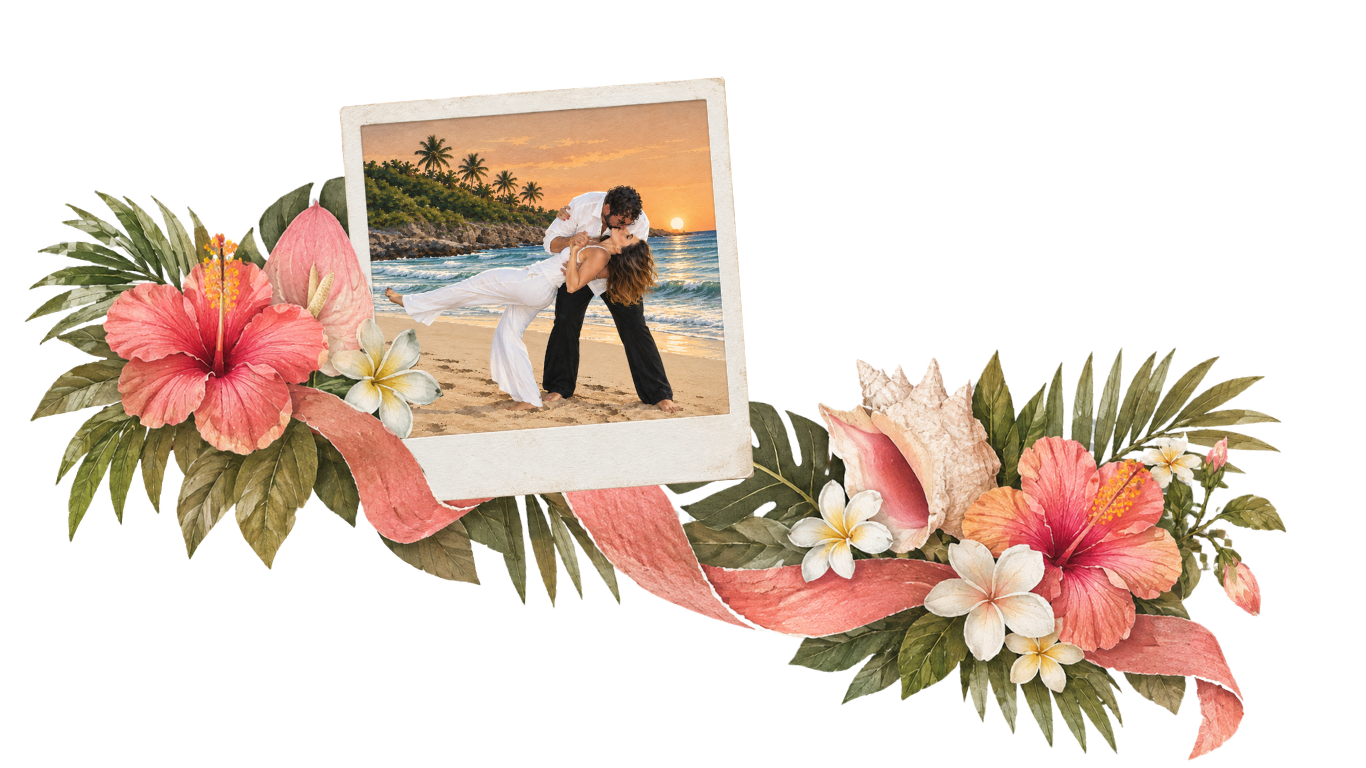
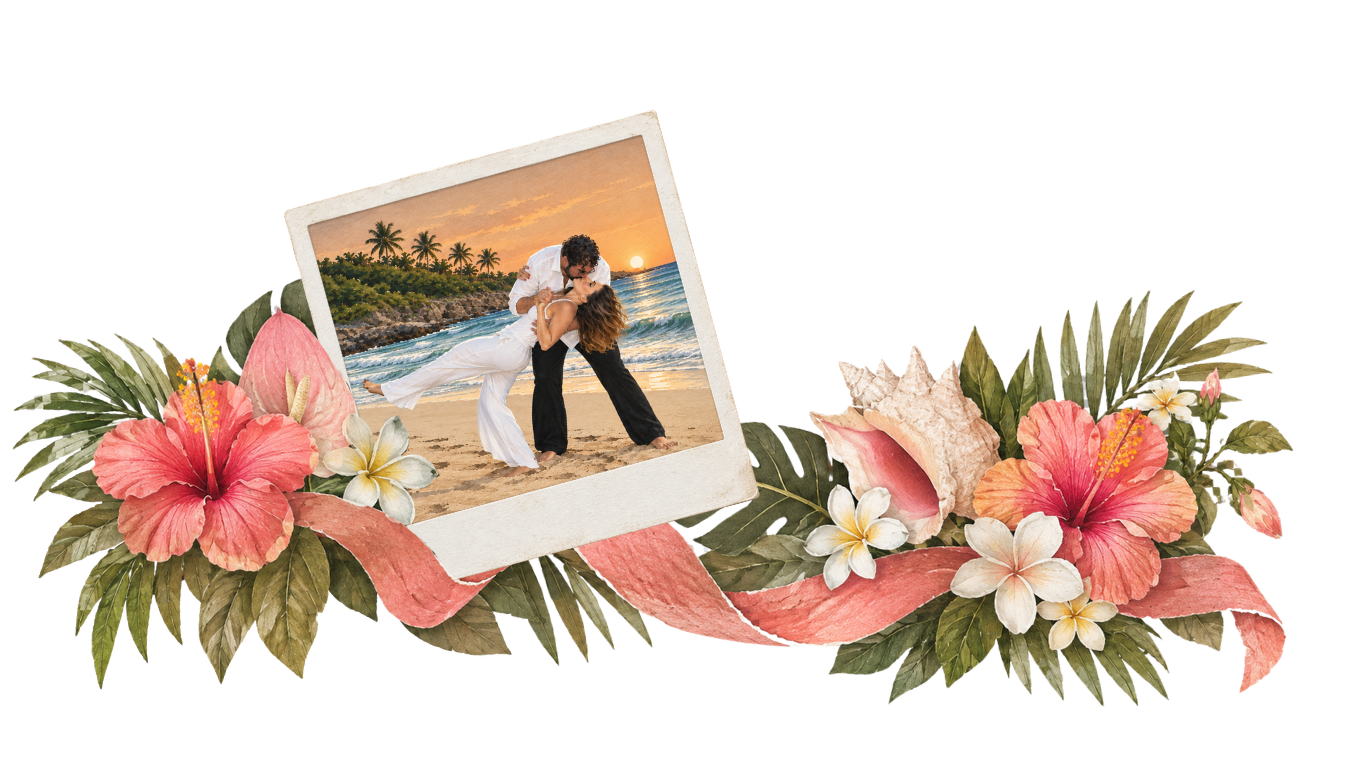
New cover art; names on one line below, date/place top-right; matching thumbnail
Swapped in the second cover artwork (tilted polaroid). Names now sit on
a single line just under the image and the date/place moved to the
top-right corner where the names were. The divider is dropped. The
WhatsApp thumbnail follows the same arrangement.

diff --git a/index.html b/index.html
@@ -14,7 +14,7 @@
 -->
 <meta property="og:title" content="Mirna Be & José Miguel — ¡Nos Casamos!" />
 <meta property="og:description" content="Acompáñanos a celebrar. 16 de enero, 2027 · Puerto Vallarta, Jalisco" />
-<meta property="og:image" content="assets/og/og-image.jpg?v=5" />
+<meta property="og:image" content="assets/og/og-image.jpg?v=6" />
 <meta property="og:type" content="website" />
 
 <link rel="preconnect" href="https://fonts.googleapis.com" />
@@ -27,7 +27,7 @@
 
 <!-- Bump every ?v= below on any CSS/JS change — GitHub Pages/browsers
      cache these aggressively, which caused a stale-CSS bug once already. -->
-<link rel="stylesheet" href="css/style.css?v=51" />
+<link rel="stylesheet" href="css/style.css?v=52" />
 </head>
 <body>
 
@@ -107,14 +107,11 @@
          it (see .cover__* in css/style.css). -->
     <div class="cover__art">
       <picture>
-        <source srcset="assets/images/portada.webp?v=1" type="image/webp" />
-        <img src="assets/images/portada.png?v=1" alt="Polaroid de Mirna y José Miguel bailando en la playa al atardecer, rodeada de flores tropicales, conchas y un listón coral" loading="eager" width="1366" height="768" />
+        <source srcset="assets/images/portada.webp?v=2" type="image/webp" />
+        <img src="assets/images/portada.png?v=2" alt="Polaroid de Mirna y José Miguel bailando en la playa al atardecer, rodeada de flores tropicales, conchas y un listón coral" loading="eager" width="1366" height="768" />
       </picture>
-      <div class="cover__title" aria-hidden="true">
-        <p class="cover__names">Mirna Be<br /><span class="cover__amp">&amp;</span><br />José Miguel</p>
-        <div class="cover__divider"></div>
-      </div>
       <p class="cover__meta" data-i18n="cover.meta">16 DE ENERO, 2027<br />PUERTO VALLARTA, JALISCO</p>
+      <p class="cover__names" aria-hidden="true">Mirna Be &amp; José Miguel</p>
     </div>
   </section>
 

diff --git a/css/style.css b/css/style.css
@@ -379,49 +379,32 @@ h1, h2, h3 {
 /* Text sits over the empty corners of the artwork; positions are
    percentages of the art and font sizes are container-width units, so
    everything scales together (min sizes keep it readable on phones). */
-.cover__title {
-  position: absolute;
-  left: 73%;
-  top: 12%;
-  transform: translateX(-50%);
-  text-align: center;
-  white-space: nowrap;
-}
-
-/* Same look as the old names banner: Playfair names in the site ink,
-   a short terracotta divider, and tracked caps for date/place. */
-.cover__names {
-  margin: 0;
-  font-family: var(--font-display);
-  font-weight: 500;
-  font-size: clamp(15px, 5cqw, 46px);
-  line-height: 1.08;
-  color: var(--color-ink);
-}
-
-.cover__amp {
-  font-size: 0.85em;
-}
-
-.cover__divider {
-  width: clamp(24px, 6cqw, 56px);
-  height: 2px;
-  background: var(--color-terracotta);
-  margin: clamp(9px, 2.6cqw, 22px) auto 0;
-}
-
+/* Date/place sits in the empty top-right corner of the artwork; the
+   names go on one line just below it. Sizes are container-width units so
+   everything scales with the art (min sizes keep phones readable). */
 .cover__meta {
   position: absolute;
-  left: 28%;
-  bottom: 8%;
+  left: 76%;
+  top: 11%;
   transform: translateX(-50%);
   margin: 0;
   text-align: center;
   font-family: var(--font-body);
   font-weight: 600;
-  font-size: clamp(11px, 2.6cqw, 23px);
+  font-size: clamp(11px, 2.5cqw, 23px);
   letter-spacing: 0.08em;
   line-height: 1.45;
+  color: var(--color-ink);
+  white-space: nowrap;
+}
+
+.cover__names {
+  margin: clamp(-30px, -3cqw, -10px) 0 0;
+  text-align: center;
+  font-family: var(--font-display);
+  font-weight: 500;
+  font-size: clamp(21px, 5.2cqw, 48px);
+  line-height: 1.1;
   color: var(--color-ink);
   white-space: nowrap;
 }
